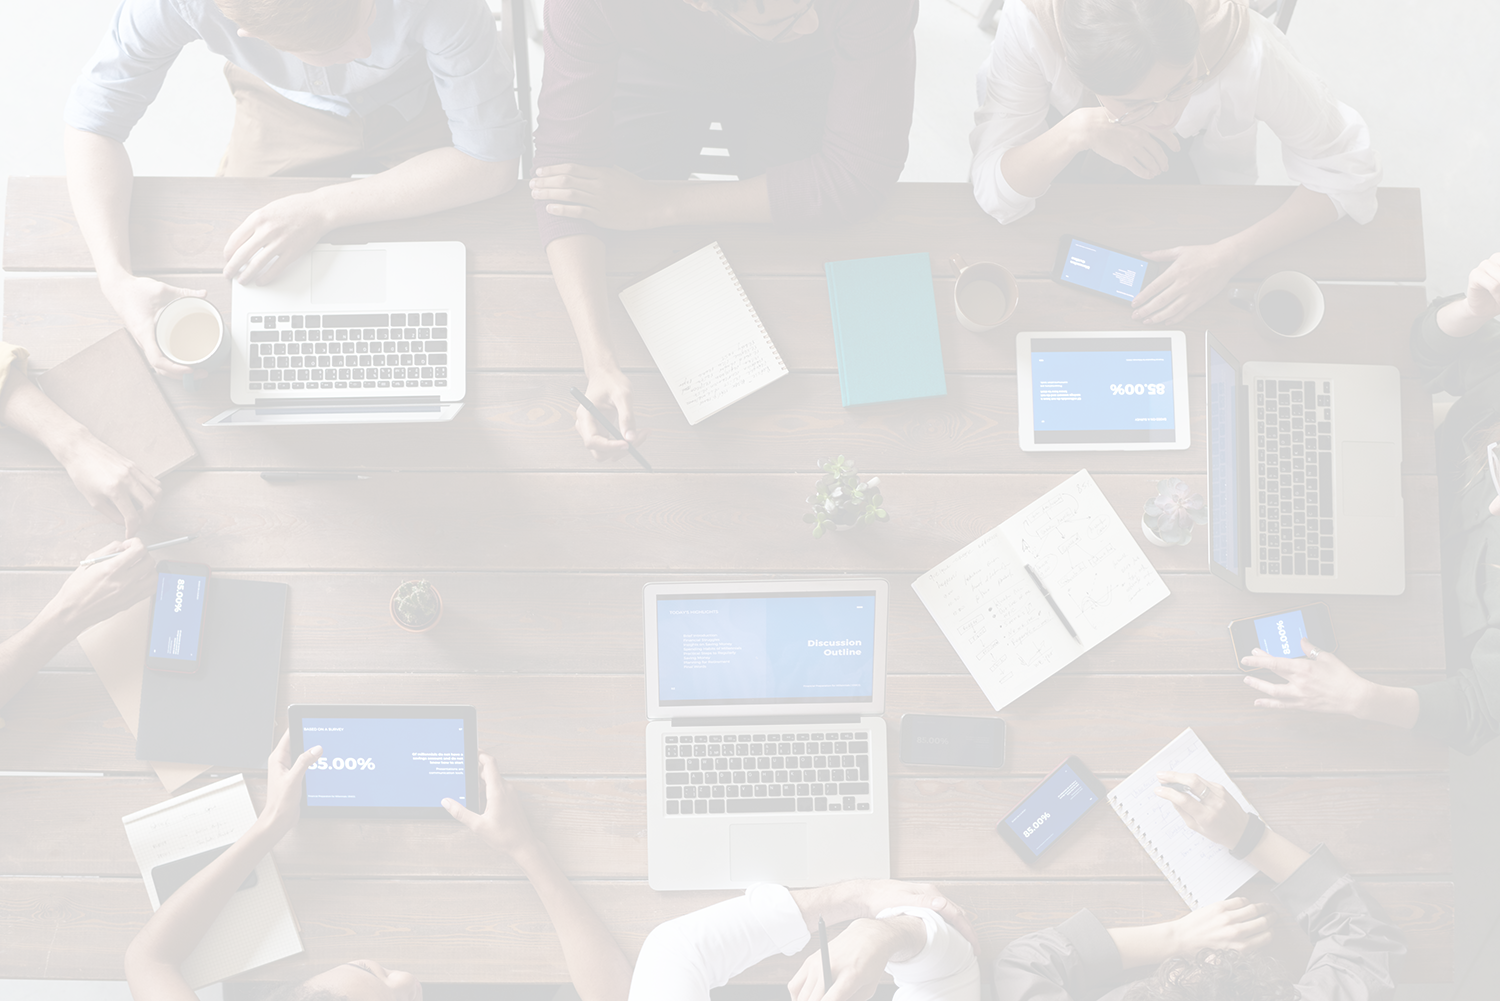
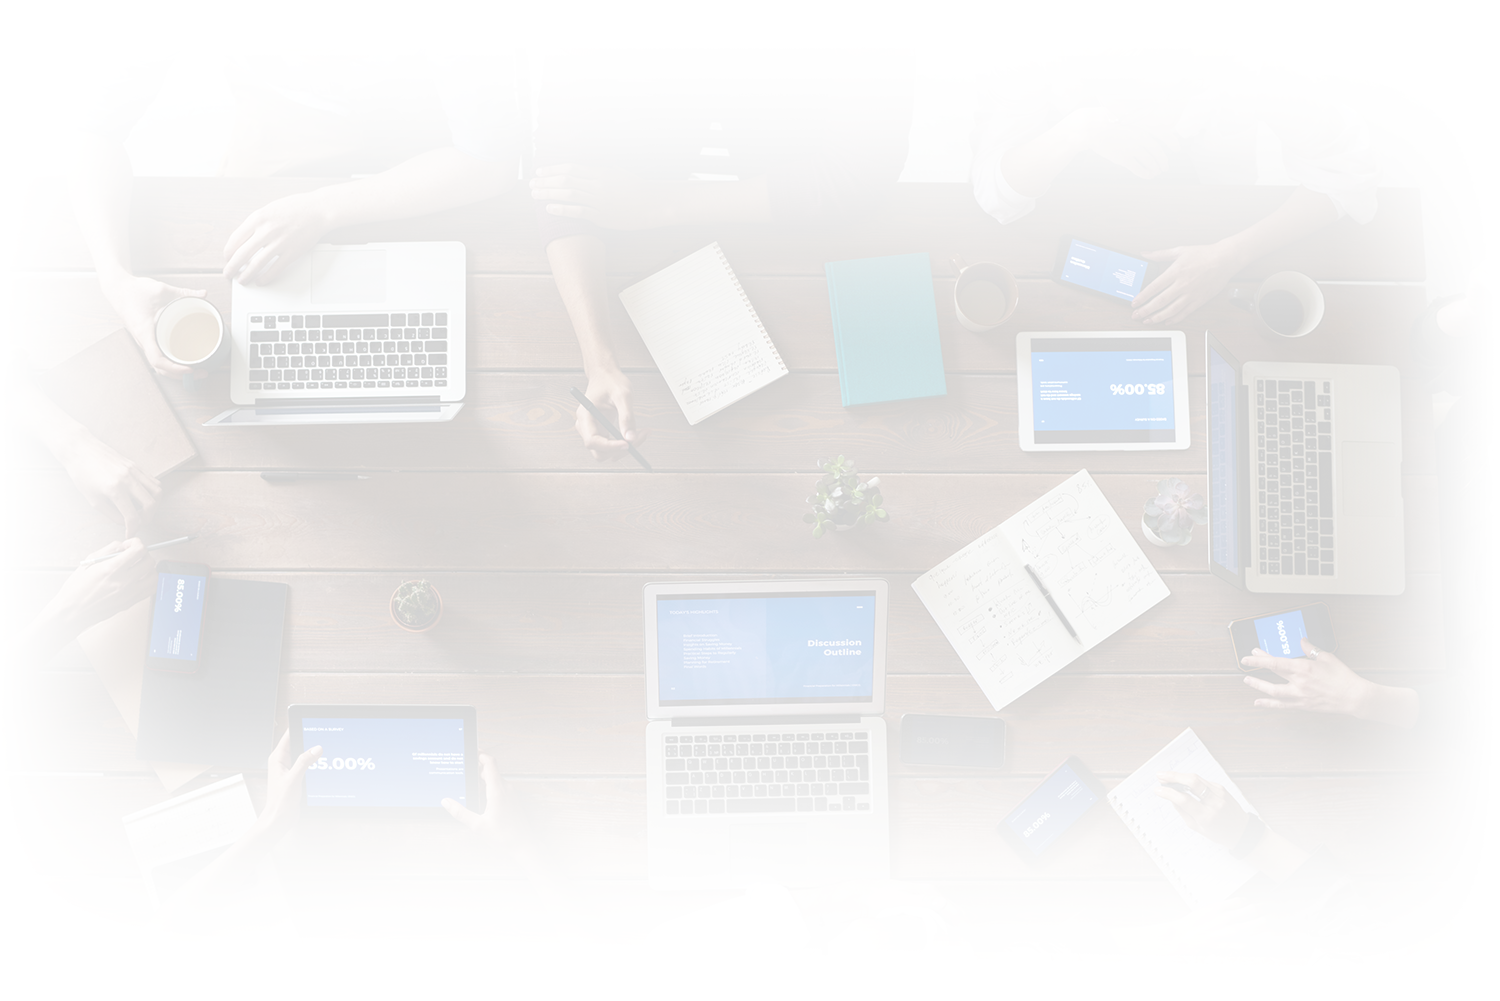
第二次提交

diff --git a/Niupingwang/websource/index.html b/Niupingwang/websource/index.html
@@ -7,7 +7,25 @@
 		<meta name="description" 
 		content="超级点评是一款可以对任何网站进行评论的浏览器插件">
 		<link rel="stylesheet" type="text/css" href="css/index_pc.css"/>
-		
+        <link id="mbCss" href="css/index_mb.css" rel="stylesheet" type="text/css" />
+        <script type="text/javascript">
+            var deviceType =
+                (function () {
+                    var userAgent = navigator.userAgent;
+                    if (userAgent.includes("Windows")) {
+                        return "pc";
+                    } else if (userAgent.includes("iPhone")
+                        || userAgent.includes("Android")) {
+                        return "mobile";
+                    } else {
+                        return "pc";
+                    }
+                })();
+			if (deviceType === "pc") {
+				var mbcss = document.querySelector("#mbCss");
+				mbcss.parentNode.removeChild(mbcss);
+            };
+		</script>
 		<!--开发环境 Vue-->
 		<script type="text/javascript" src="https://cdn.jsdelivr.net/npm/vue/dist/vue.js"></script>
 		
@@ -21,10 +39,10 @@
 				<img src="imgs/logo.png">
 			</p>
 			<ul :style="'line-height:' + headerHeight + 'px;'">
-				<li><a href="/">产品</a></li>
-				<li><a href="/">软件下载</a></li>
-				<li><a href="/">API接入</a></li>
-				<li><a href="/">关于我们</a></li>
+				<li><a href="#page2">产品</a></li>
+				<li><a href="#page1">软件下载</a></li>
+				<li><a href="#page3">API接入</a></li>
+				<li><a href="https://docs.qq.com/doc/DUWJYTXp3bldRY250">关于我们</a></li>
 			</ul>
 		</header>
 		<main>
@@ -32,16 +50,41 @@
 				<p class="first banner">评论一切的浏览器插件，</p>
 				<p class="banner">超级点评！<a href="/" class="float_right Btn" style="margin-right: 150px;">软件下载</a></p>
 			</div>
-			<div :style="'height:' + mainHeight + 'px;'">
-				
+			<div id="page2" :style="'height:' + mainHeight + 'px;'">
+				<p class="banner" style="padding-top: 8%;">
+					打破传统限制，分享不同观点
+				</p>
+				<p class="banner content" style="padding-top: 18px;">
+					我们发现，很多网站和网页并不允许评论。
+					或许，你想轻轻调侃，哂笑一番；也或许，你只是想倾听别人的高谈阔论。
+				</p>
+				<p class="content banner">
+					超级点评是一个第三方的评论软件。使用超级点评，你可以在任意网页上随意评论，
+					抑或为别人的评论发出会心一笑。我们相信：每一个网站都会宛如一个开放的广场，
+					每一条评论背后都会有一个值得干杯的朋友。
+				</p>
+			</div>
+			<div id="page3" :style="'height:' + mainHeight + 'px;'">
+				<p class="banner" style="padding-top: 8%;">
+					API接入
+				</p>
+				<p class="banner content" style="padding-top: 18px;">
+					对传统的网站开发者而言，评论区的开发一般成本较高。
+					超级点评保持开放的精神。
+					任何网页——哪怕是静态网页——都可以很容易的接入超级点评，无需用户下载插件，即可快速获得评论区功能。
+				</p>
+				<p class="banner">
+					<a href="https://docs.qq.com/doc/DUWtlYU5NVXNvTkdi" class="Btn">查看文档</a>
+				</p>
 			</div>
 		</main>
 		<footer>
 			<div class="left">
-				<p>Site is powered by bugs Co, ltd,.</p>
+				<p>Site is powered by SuperAdjust Co, ltd,.</p>
 				<p>&copy; 2019 ~ {{year}} 成都超级点评技术有限责任公司</p>
 				<p><a href="/">X ICP 备 XXXXXXXXX 号</a></p>
 				<p><a href="/">X 公安网备XXXXXXXX号</a></p>
+				<p><a href="/">用户协议</a></p>
 			</div>
 			<div class="right">
 				<p><a href="/">联系我们</a></p>
@@ -55,10 +98,8 @@
 		<script type="text/javascript">
 			var main = new Vue({
 				el: "main",
-				data:{
-					mainHeight: (document.documentElement.clientHeight 
-						|| document.body.clientHeight || 600) > 700 ? 700: (document.documentElement.clientHeight 
-						|| document.body.clientHeight || 600)
+				data: {
+					mainHeight: deviceType == "pc" ? 530 : (document.documentElement.clientHeight || document.body.clientHeight)
 				}
 			});
 			var footer = new Vue({

diff --git a/Niupingwang/websource/css/index_pc.css b/Niupingwang/websource/css/index_pc.css
@@ -5,7 +5,7 @@
 }
 
 body{
-	background-color: white;
+	background-color: #dde0dd;
 }
 
 #container{
@@ -102,7 +102,7 @@ main .right{
 }
 
 main .first{
-	padding-top: 19% !important;
+	padding-top: 16% !important;
 }
 
 main .banner{
@@ -135,4 +135,28 @@ main .banner{
 
 .float_right{
 	float: right;
+}
+
+#page2 {
+	background-image: url(../imgs/banner2.png);
+	background-position: center;
+	background-size: cover;
+}
+#page3 {
+	background-image: url(../imgs/banner3.png);
+	background-position: center;
+	background-size: cover;
+}
+
+.font_15{
+	font-size:15px;
+}
+
+main .content {
+	font-size: 17px;
+	text-indent: 2em;
+	line-height: 25px;
+	padding-top: 0px;
+	padding-bottom: 0px;
+	text-align:justify;
 }

diff --git a/Niupingwang/websource/css/index_mb.css b/Niupingwang/websource/css/index_mb.css
@@ -1,0 +1,28 @@
+
+#container {
+    width: 100%;
+    margin: auto;
+}
+
+footer {
+    height: 600pt;
+    font-size: 25pt;
+    background-color: gray;
+    cursor: pointer;
+}
+
+footer div {
+    height: 250pt;
+    margin-top: 50pt;
+    padding-left: 10%;
+    width: 100%;
+}
+
+footer .right{
+    
+}
+
+
+footer p {
+    height: 35pt;
+}

diff --git a/Niupingwang/app.js b/Niupingwang/app.js
@@ -12,7 +12,8 @@ const api = require("./Modules/api.js");
 app.get("/api", api);
 
 const adjustapi = require("./Modules/AdustApi");
-app.post("/api/adjust", adjustapi);
+const jsonParser = require("body-parser").json();
+app.post("/api/adjust", jsonParser, adjustapi);
 
 app.use("/uploadedImages/", express.static("userImages"));
 

diff --git a/Niupingwang/websource/Login.html b/Niupingwang/websource/Login.html
@@ -1,0 +1,13 @@
+<!DOCTYPE html>
+
+<html>
+<head>
+    <meta charset="utf-8" />
+    <title>超级点评 - 登录</title>
+</head>
+<body>
+    <footer>
+
+    </footer>
+</body>
+</html>
